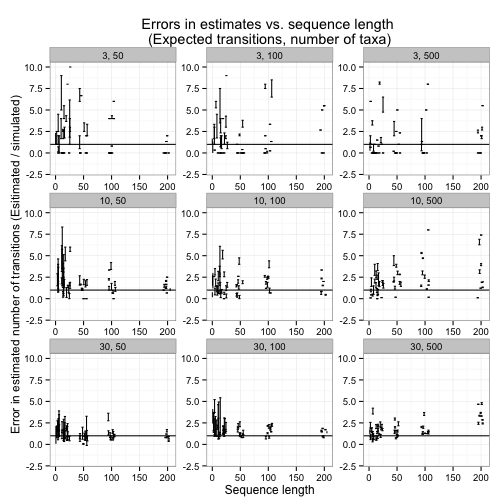
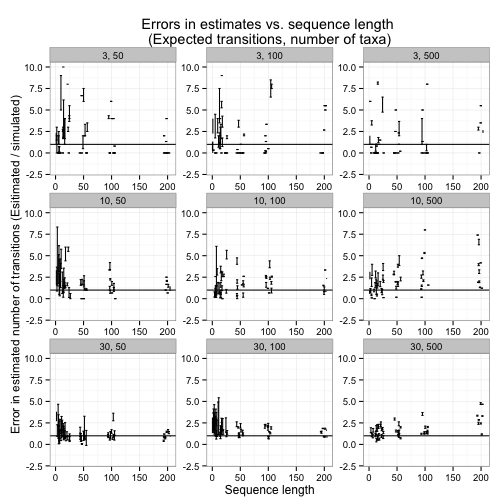
updated

diff --git a/README.md b/README.md
@@ -77,21 +77,20 @@ dat1.2$slen[dat1.2$slen == 1000] <- dat1.2$slen[dat1.2$slen == 1000] - 800
 dat1.2$exp_t <- factor(dat1.2$exp_t)
 dat1.2$slen <- jitter(dat1.2$slen, amount = 7)
 
-plot1.2 <- ggplot(dat1.2, aes(x = jitter(slen), y =  ((error_max - error_min) / 2) + error_min)) + geom_errorbar(aes(ymin = error_min, ymax = error_max), width = 4) + xlim(0, 205) + facet_wrap(~exp_t + ntax, scales = 'free') + ylim(-2, 10) + ylab('Error in estimated number of transitions (Esitimated / simulated)') + xlab('Sequence length') + ggtitle('Errors in estimates vs. sequence length \n(Expected transitions, number of taxa)') + theme(axis.ticks = element_blank(), axis.text.x = element_blank()) + theme_bw() + geom_abline(intercept = 1, slope = 0)
+plot1.2 <- ggplot(dat1.2, aes(x = slen, y =  ((error_max - error_min) / 2) + error_min)) + geom_errorbar(aes(ymin = error_min, ymax = error_max), width = 4) + xlim(0, 205) + facet_wrap(~exp_t + ntax, scales = 'free') + ylim(-2, 10) + ylab('Error in estimated number of transitions (Esitimated / simulated)') + xlab('Sequence length') + ggtitle('Errors in estimates vs. sequence length \n(Expected transitions, number of taxa)') + theme(axis.ticks = element_blank(), axis.text.x = element_blank()) + theme_bw() + geom_abline(intercept = 1, slope = 0)
 
 print(plot1.2)
 ```
 
 ```
-## Warning: Removed 13 rows containing missing values (geom_path).
+## Warning: Removed 11 rows containing missing values (geom_path).
 ## Warning: Removed 8 rows containing missing values (geom_path).
-## Warning: Removed 1 rows containing missing values (geom_path).
+## Warning: Removed 4 rows containing missing values (geom_path).
+## Warning: Removed 5 rows containing missing values (geom_path).
+## Warning: Removed 8 rows containing missing values (geom_path).
 ## Warning: Removed 2 rows containing missing values (geom_path).
-## Warning: Removed 7 rows containing missing values (geom_path).
-## Warning: Removed 1 rows containing missing values (geom_path).
 ## Warning: Removed 2 rows containing missing values (geom_path).
-## Warning: Removed 3 rows containing missing values (geom_path).
-## Warning: Removed 1 rows containing missing values (geom_path).
+## Warning: Removed 5 rows containing missing values (geom_path).
 ```
 
 ![plot of chunk unnamed-chunk-2](figure/unnamed-chunk-2.png) 
